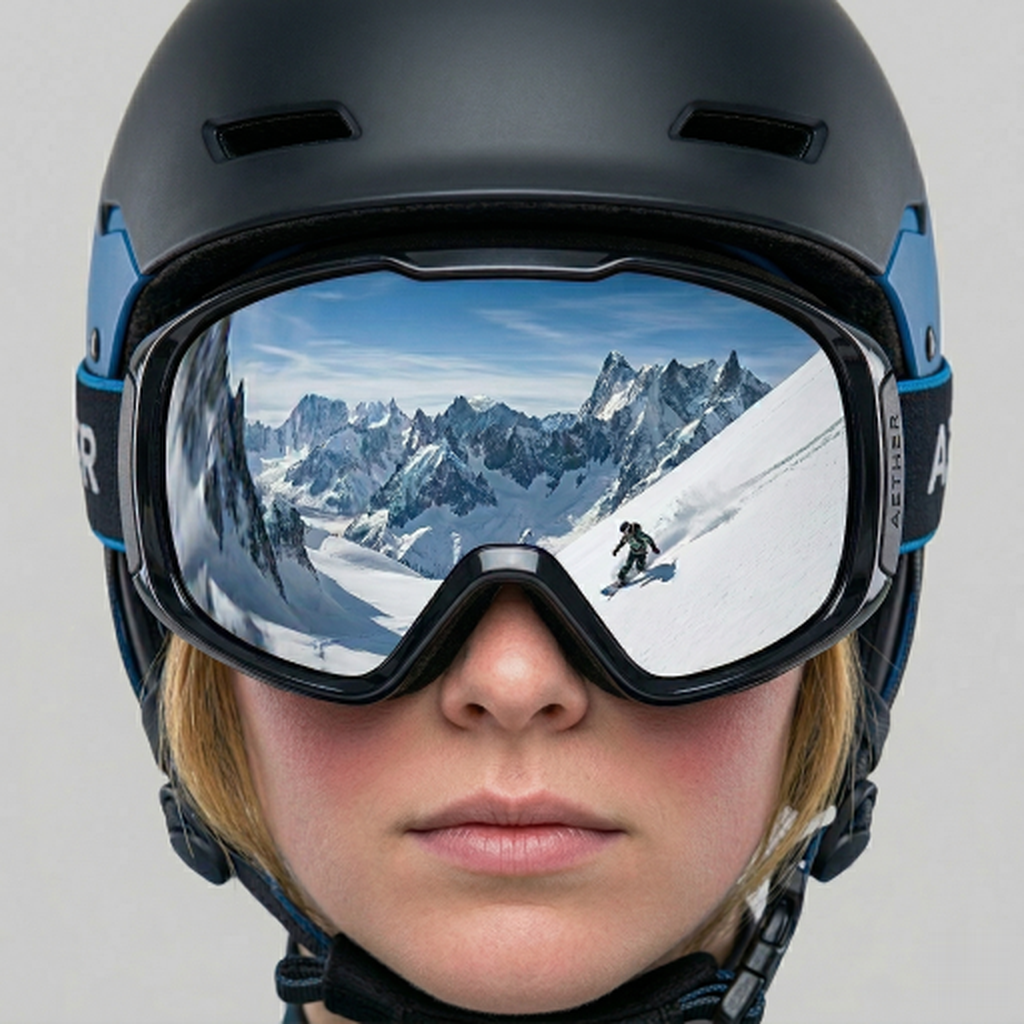
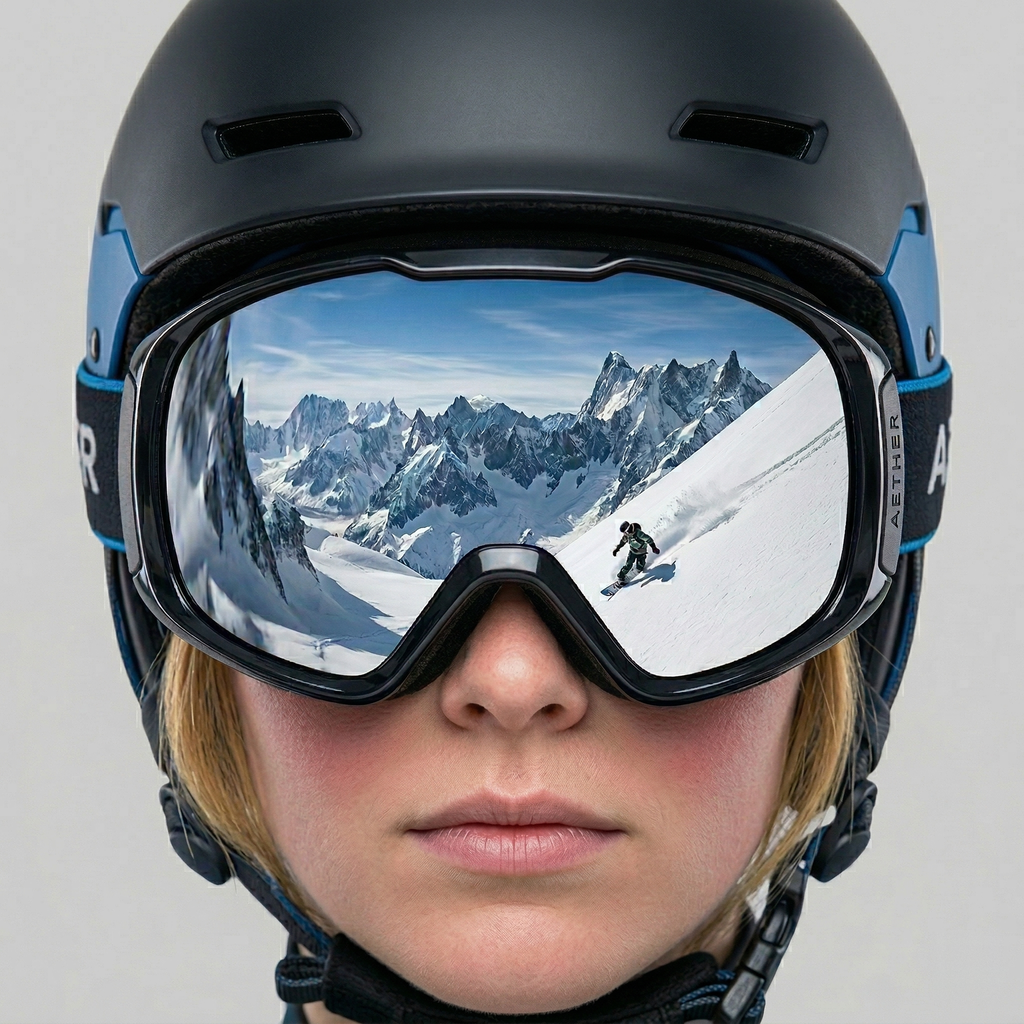
docs: update proposal and agents file

diff --git a/openspec/changes/add-app-foundation/design.md b/openspec/changes/add-app-foundation/design.md
@@ -117,8 +117,9 @@ Node and browsers, and nothing here needs its reporters.
   appearance gives dark status bar content on both platforms, so no status bar component is needed
   yet. The launch screen is the icon on white, the same white as the first screen, and hides as
   soon as the first frame renders: nothing loads asynchronously before it.
-- Icons come from the live winter PWA icon (a full-bleed photo), with the image generator's corner
-  mark filled in from the surrounding background: `icon.png` 1024 px without alpha,
+- Icons come from the owner's 2048 px winter master `assets/images/winter-original.png` (a
+  full-bleed photo, kept unchanged and never bundled because nothing imports it), downscaled, with
+  the image generator's corner mark filled in from the surrounding background: `icon.png` 1024 px without alpha,
   the Android adaptive foreground at full bleed (launcher masks keep the goggles), a rounded copy
   for the launch screen (Android 12+ masks it to a circle, which keeps the goggles), and a 48 px favicon. Icon Composer, a themed Android icon and the seasonal
   swap (D14) are follow-ups.
@@ -138,8 +139,6 @@ does so for `project-scaffolding` and `i18n`. `openspec/config.yaml` states this
 
 ## Risks / Trade-offs
 
-- [Only a 512 px winter icon exists; the 1024 px store icon is upscaled and slightly soft] → The
-  owner supplies a 1024 px master before the first store upload (`add-release-pipeline`).
 - [Copied specs read like requirements for this repo but describe the PWA] → `config.yaml`
   context; each port change rewrites its capability.
 - [`dev` default means a release build without `APP_VARIANT=prod` ships the dev identity] → The

diff --git a/openspec/changes/add-app-foundation/tasks.md b/openspec/changes/add-app-foundation/tasks.md
@@ -22,7 +22,7 @@
 ## 4. Shell and launch
 
 - [x] 4.1 Add the root layout and the empty shell screen (app name, localized tagline); verify a component test renders the tagline in `en` and `de-CH`
-- [x] 4.2 Generate the icon, adaptive icon, launch image and favicon from the winter PWA icon; verify sizes and that `icon.png` has no alpha channel
+- [x] 4.2 Generate the icon, adaptive icon, launch image and favicon from the 2048 px winter master `assets/images/winter-original.png`; verify sizes and that `icon.png` has no alpha channel
 
 ## 5. CI
 
@@ -35,7 +35,7 @@
 ## 7. Verification
 
 - [x] 7.1 Run `npm run check` and `npx expo export --platform web`; verify both pass
-- [ ] 7.2 Owner: dev build on iPhone and Android device plus web; verify launch on white without a flash, app name "TourenBuddy Dev", German tagline after switching the app language in system settings, dark status bar icons on white also when the device is in dark mode
+- [ ] 7.2 Owner: dev build in the iOS Simulator plus web (Android optional while iOS is the focus); verify launch on white without a flash, app name "TourenBuddy Dev", German tagline after switching the app language in system settings, dark status bar icons on white also when the device is in dark mode
 
 ## Workflow follow-up
 

diff --git a/openspec/changes/add-app-foundation/proposal.md b/openspec/changes/add-app-foundation/proposal.md
@@ -33,7 +33,7 @@ Phase 1 (#368) is split into five changes, each its own pull request into `main`
 - `app.config.ts` with two variants: `dev` (default, `ch.tourenbuddy.app.dev`, "TourenBuddy Dev")
   and `prod` (`APP_VARIANT=prod`, `ch.tourenbuddy.app`), installable side by side. iOS 26 minimum
   (D7), light appearance only (D12), Android predictive back, encryption export declaration.
-- Launch screen and app icon from the current winter PWA icon.
+- Launch screen and app icon from the 2048 px winter icon master.
 - Tooling: ESLint with Prettier at zero warnings, `tsc`, Jest with the Expo preset and React Native
   Testing Library. One `npm run check` runs all of them.
 - GitHub Actions PR checks: lint, type check, tests (including the locale checks) and a web export.

diff --git a/AGENTS.md b/AGENTS.md
@@ -111,6 +111,9 @@ npx expo-doctor                # dependency and config check
   `tourenbuddy-frontend-v0.52.0`. Until the change that ports a capability rewrites its spec, the
   spec describes the Vue PWA: read it as the product behavior to match, not as implementation
   instructions.
+- Focus is the iOS app. The owner tests mostly in iOS Simulators and checks on a real iPhone 15
+  before releases. Android is not prioritized for now: keep it building and correct, but polish
+  and device checks wait. Write device instructions for the Simulator first.
 - Supabase free tier: expect higher auth latency.
 - Backlog: https://github.com/users/sekael/projects/1
 - Values: thoughtful development, understand before changing, small reviewable PRs.
